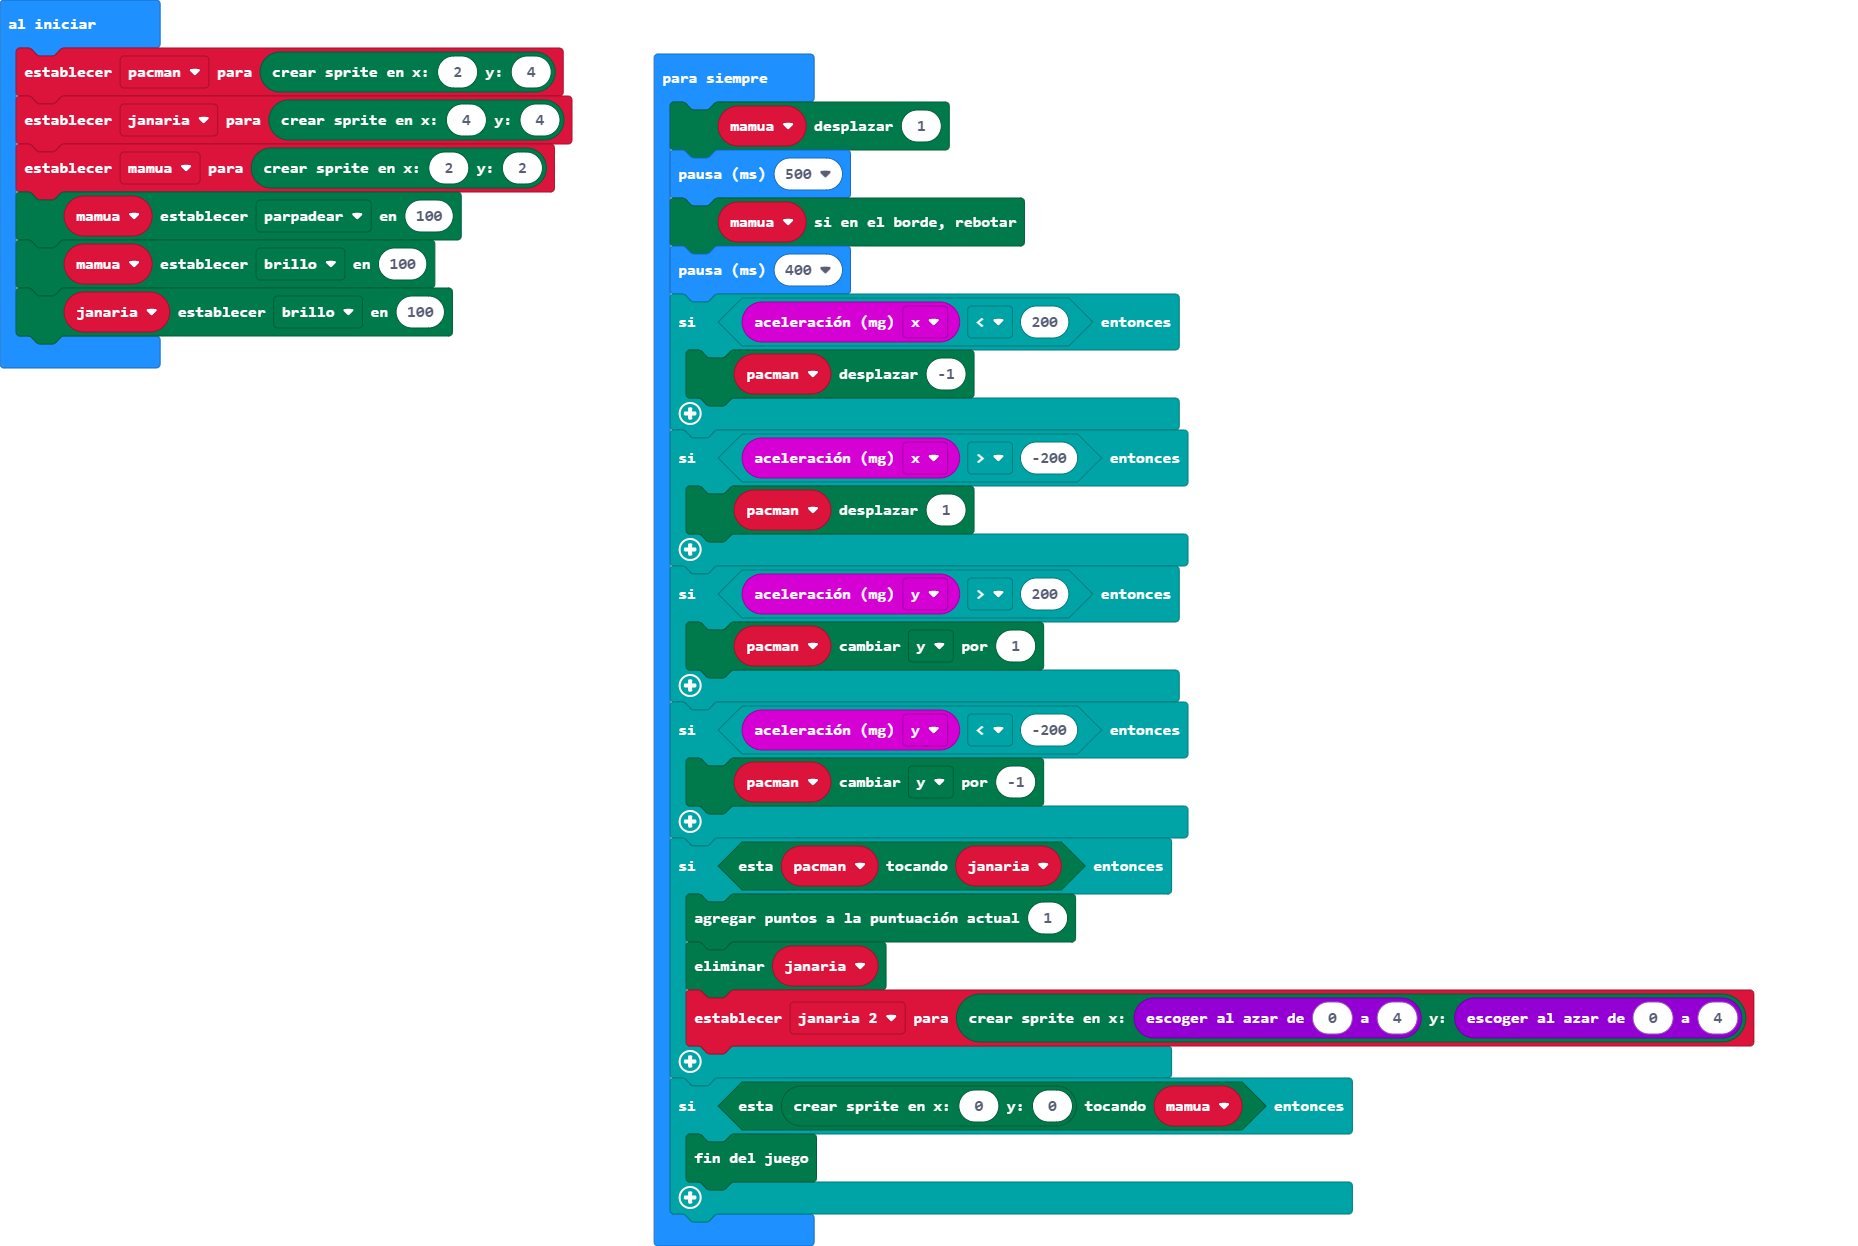
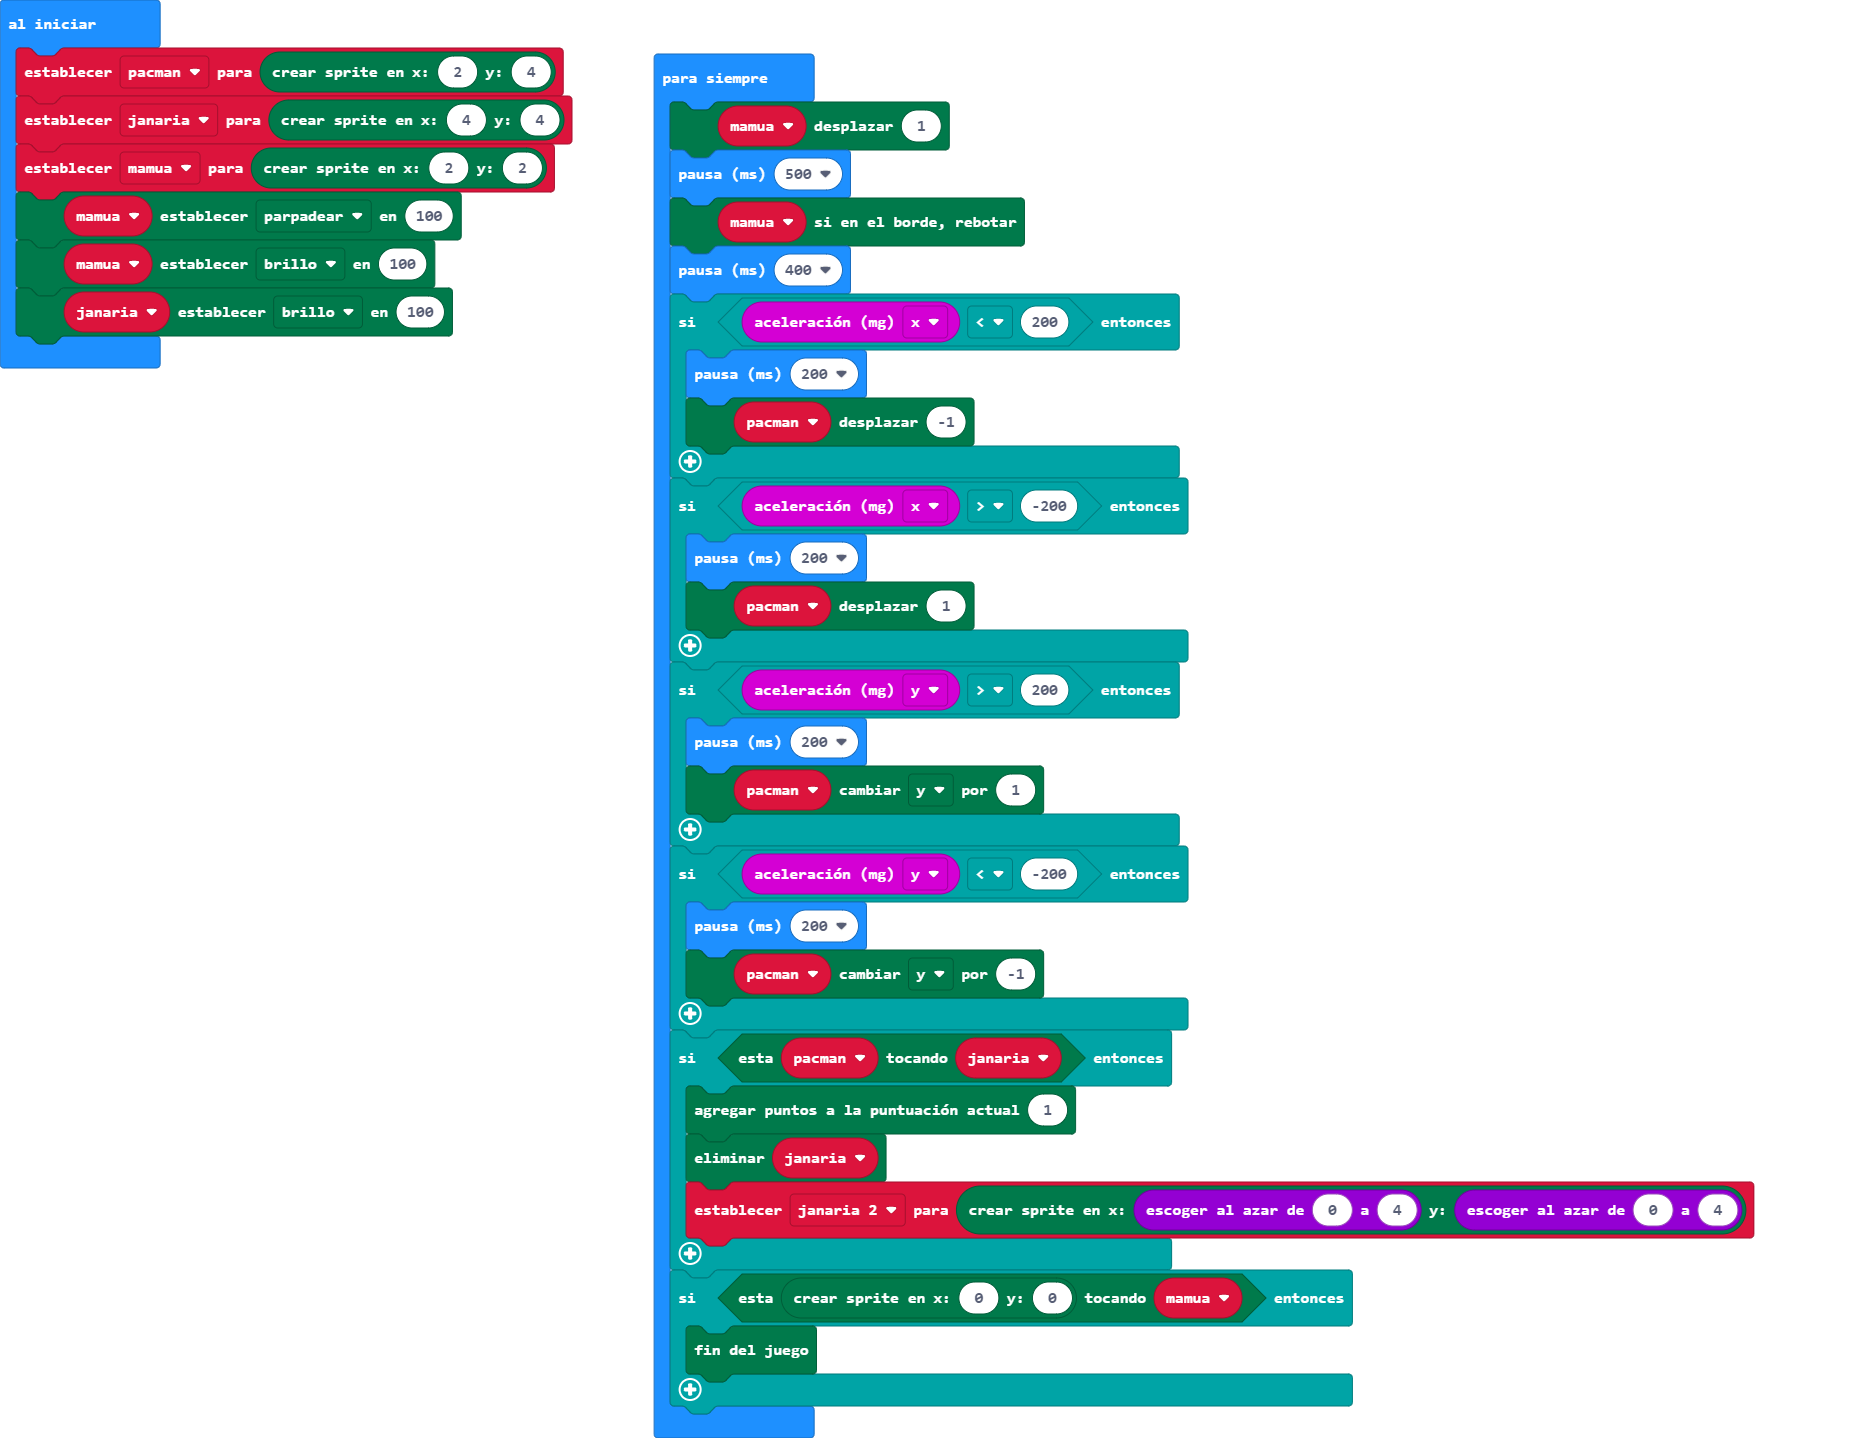
Actualizar main.blocks, main.ts

Changed region(s): [[0.3434, 0.0305, 0.9677, 1.0], [0.0, 0.0, 0.3122, 0.305]]

diff --git a/main.ts b/main.ts
@@ -11,15 +11,19 @@ basic.forever(function () {
     mamua.ifOnEdgeBounce()
     basic.pause(400)
     if (input.acceleration(Dimension.X) < 200) {
+        basic.pause(200)
         pacman.move(-1)
     }
     if (input.acceleration(Dimension.X) > -200) {
+        basic.pause(200)
         pacman.move(1)
     }
     if (input.acceleration(Dimension.Y) > 200) {
+        basic.pause(200)
         pacman.change(LedSpriteProperty.Y, 1)
     }
     if (input.acceleration(Dimension.Y) < -200) {
+        basic.pause(200)
         pacman.change(LedSpriteProperty.Y, -1)
     }
     if (pacman.isTouching(janaria)) {
